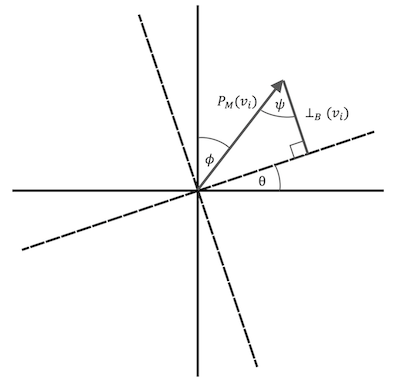
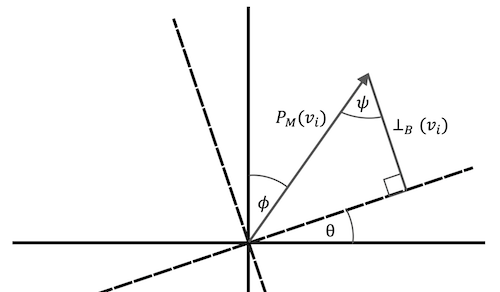
Polish figures. Add tags.
Former-commit-id: 00bdc1e6f946a3dfdc79c260f1b2c32f2876b40b

diff --git a/meanderings/mathematics/2022-09-03-Bounds-on-Blades-Formed-From-Nearly-Orthogonal-Vectors.md b/meanderings/mathematics/2022-09-03-Bounds-on-Blades-Formed-From-Nearly-Orthogonal-Vectors.md
@@ -1,11 +1,17 @@
-## 2022-09-03: Bounds on Blades Formed From Nearly Orthgonal Vectors
+---
+tags: geometric-algebra
+---
+
+--------------------------------------------------------------------------------------------
+
+2022-09-03: Bounds on Blades Formed From Nearly Orthogonal Vectors
+------------------------------------------------------------------
 
 _Author(s)_: Kevin Chu `<kevin@velexi.com>`
 
 _Last Updated_: 2022-09-06
 
 --------------------------------------------------------------------------------------------
-
 ### Summary
 
 In this note, we derive bounds on the norm of blades formed from any nearly orthogonal set
@@ -16,7 +22,6 @@ appropriate projections onto the orthonomal basis vectors (e.g.,
 $v_{ij} = v_i \cdot b_j$ where $b_j$ is the $j$-th basis vector).
 
 --------------------------------------------------------------------------------------------
-
 ### Notation
 
 * $n$ is the dimension of the vector space
@@ -44,7 +49,6 @@ $v_{ij} = v_i \cdot b_j$ where $b_j$ is the $j$-th basis vector).
     $\newcommand{\rej}[2]{\perp_{#1}\left(#2\right)}$
 
 --------------------------------------------------------------------------------------------
-
 ### Assumptions
 
 * $\{v_1, \ldots, v_n\}$ is a set of vectors that is nearly orthogonal in the sense that
@@ -291,7 +295,6 @@ $v_{ij} = v_i \cdot b_j$ where $b_j$ is the $j$-th basis vector).
   _Proof_: TODO
 
 --------------------------------------------------------------------------------------------
-
 ### References
 
 1. R.P. Brent, J.H. Osborn, W.D. Smith. "Note on best possible bounds for determinants of
